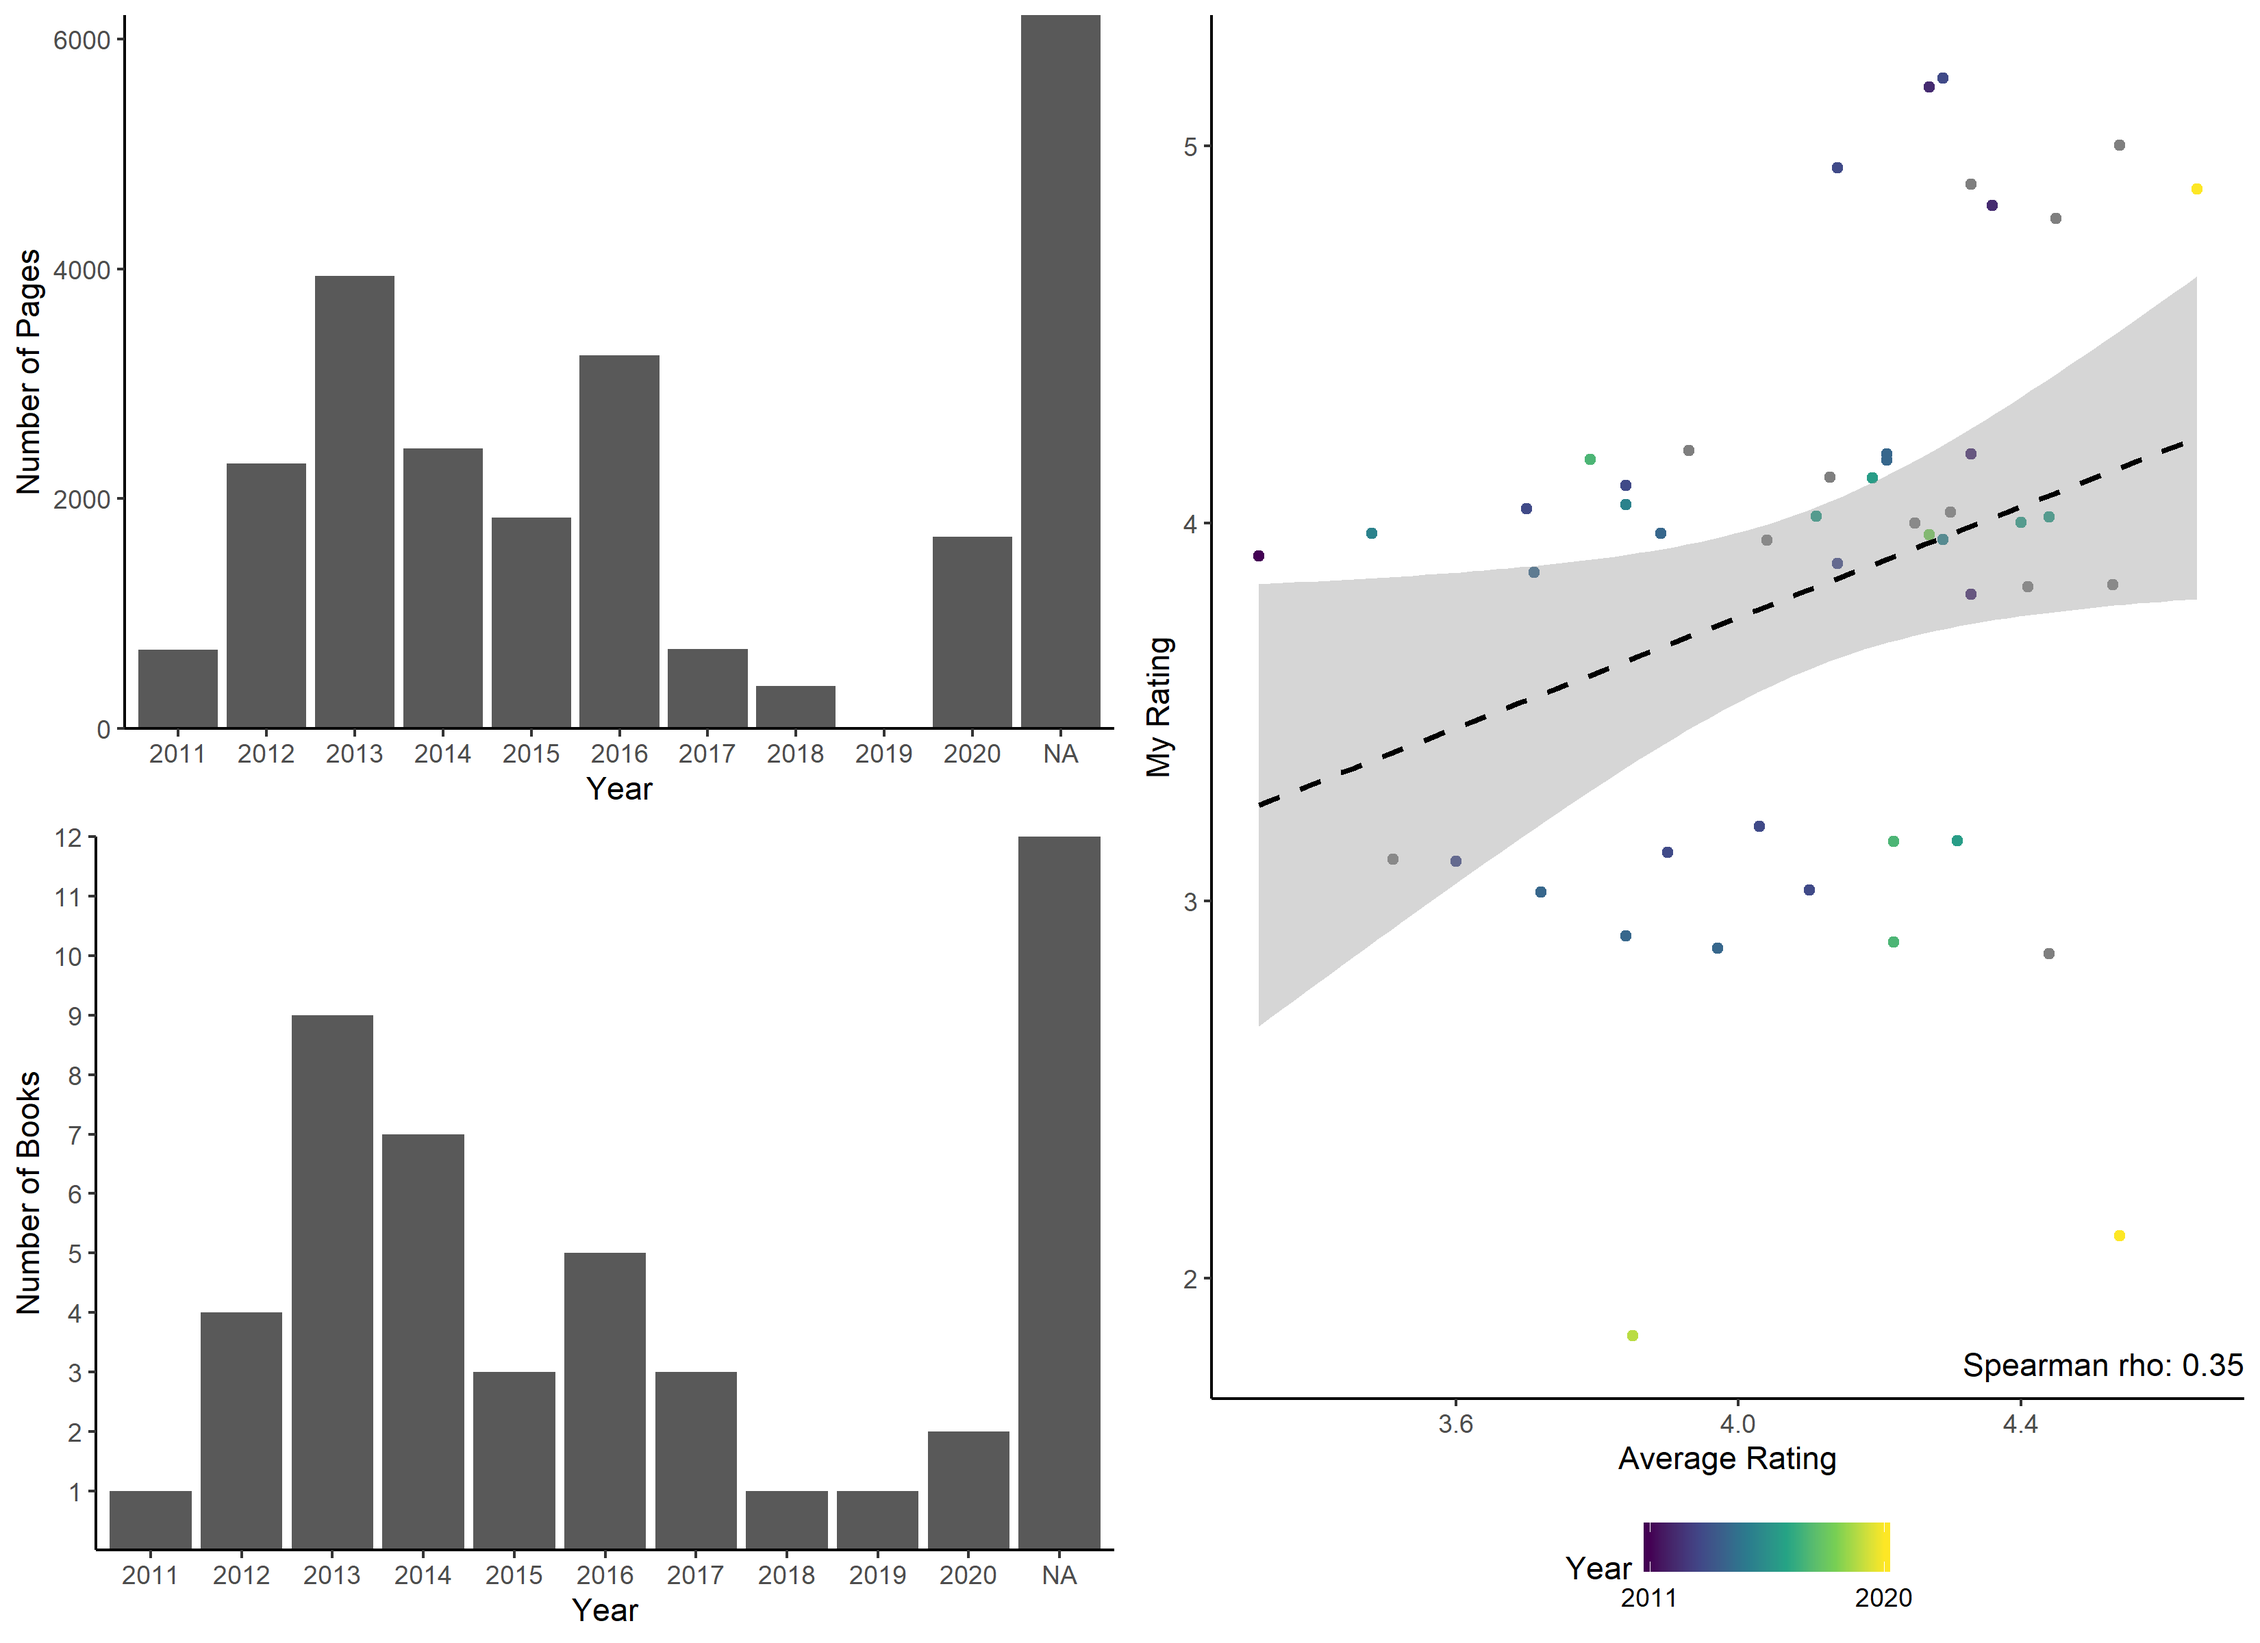
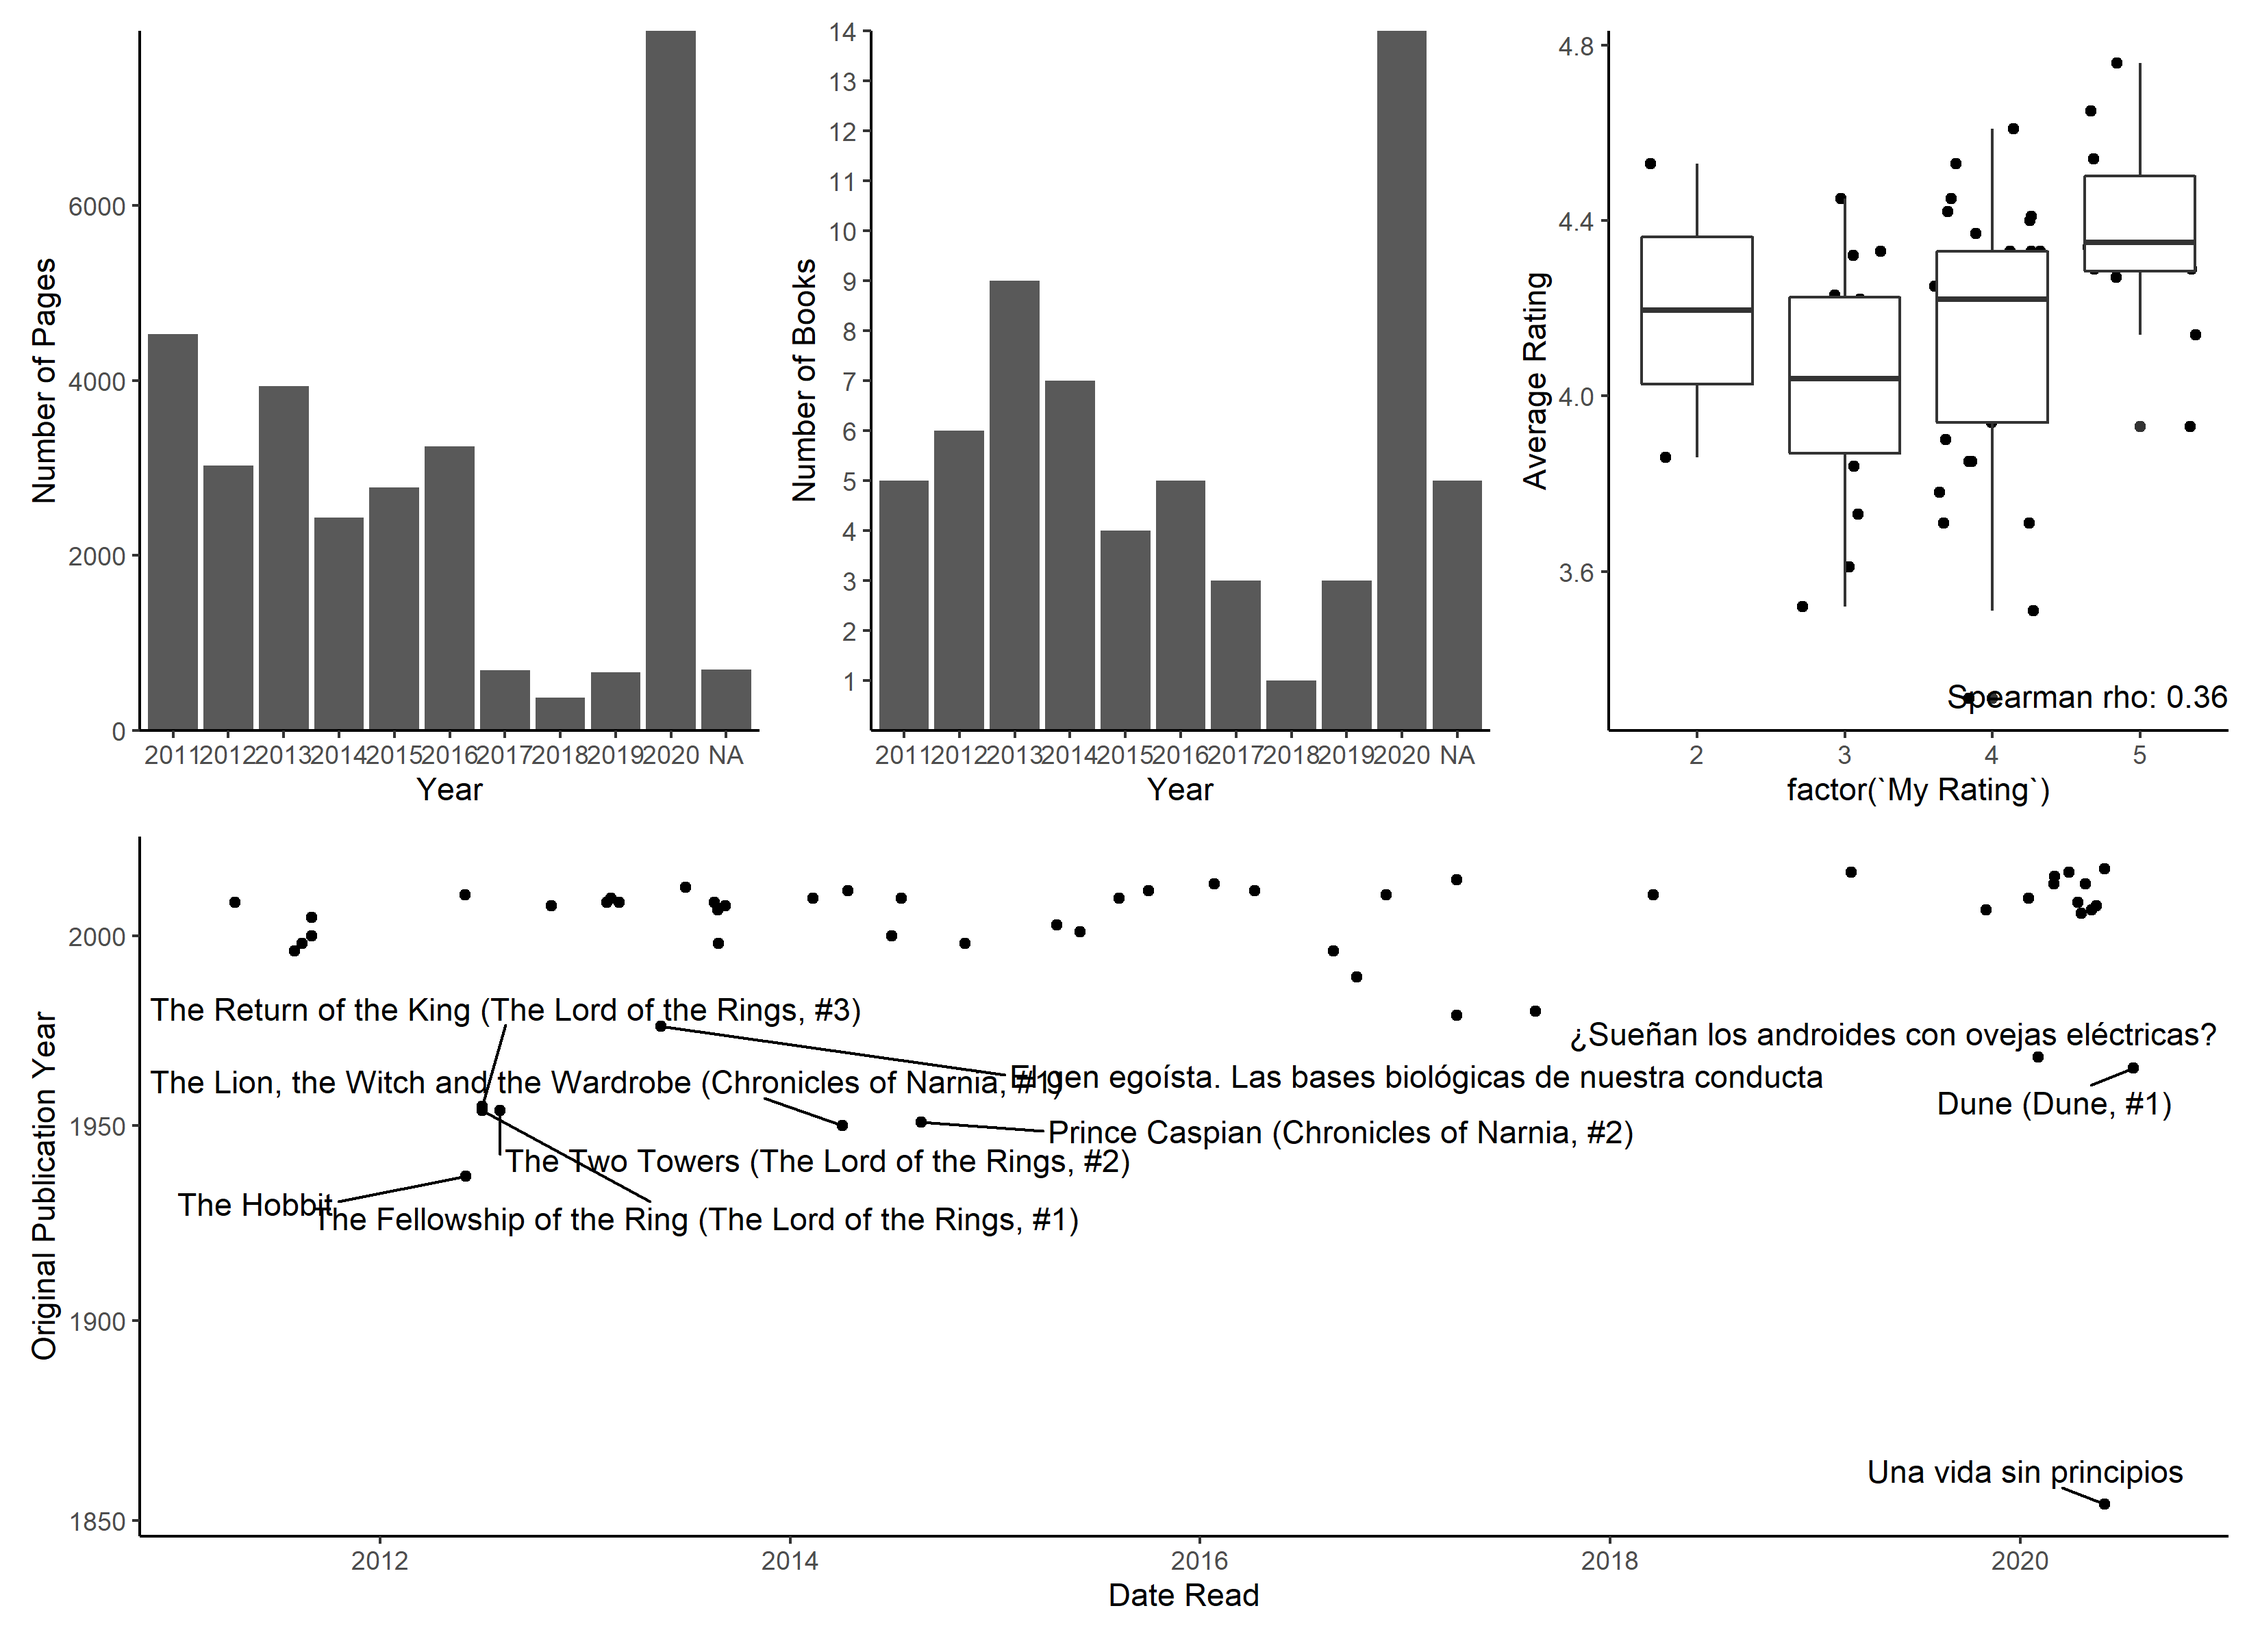
update

diff --git a/20200118_goodreads/README.md b/20200118_goodreads/README.md
@@ -1,6 +1,6 @@
 # Goodreads Viz
 * author: David Mas-Ponte
-* date: 2020-01-18
+* date: 2020-07-26
 ## Usage
 In order to compile this report, run:
 
@@ -17,12 +17,15 @@ You will need to install the following dependencies first:
 * dplyr
 * fs
 * ggplot2
+* ggrepel
 * glue
 * knitr
 * lubridate
 * magrittr
+* patchwork
 * readr
 * renv
+* stringr
 
 ## Data source
 [Goodreads](https://www.goodreads.com/) is a
@@ -100,12 +103,10 @@ raiting_cor = with(dat_read,cor(`My Rating`,
                                 method = "spearman")) %>% round(digits = 2)
 
 p1 = dat_read %>%
-  ggplot(aes(y = `My Rating`,x = `Average Rating`, color = year_read)) +
-  geom_jitter(height = 0.2,width = 0) +
-  geom_smooth(method = "lm",color = "black",linetype = "dashed") +
-  theme_classic() +
-  scale_color_viridis_c(breaks = c(min(dat_read$year_read,na.rm = T),
-                                  max(dat_read$year_read,na.rm = T))) +
+  ggplot(aes(x = factor(`My Rating`),y = `Average Rating`)) +
+  geom_jitter(width = 0.4,height = 0) +
+  geom_boxplot() +
+  theme_classic()  +
   annotate(x  =Inf,y = -Inf,geom = "text",
            label = glue::glue("Spearman rho: {raiting_cor}"),
            hjust = 1,
@@ -125,15 +126,45 @@ p3 = dat_read %>% ggplot(aes(x = factor(year_read),
   scale_y_continuous(expand = c(0,0)) +
   labs(y = "Number of Pages", x = "Year") +
   theme_classic()
+
+
+
+dat_read$saga = stringr::str_extract(dat_read$Title,"(?<=\\().+(?=, #)")
+dat_read$saga = ifelse(is.na(dat_read$saga),dat_read$Title,no = dat_read$Title)
+dat_read %>%
+  dplyr::filter(!is.na(`Original Publication Year`)) %>%
+  dplyr::filter(!is.na(`Date Read`)) -> plot_data
+
+p4 = ggplot(plot_data,
+            aes(x = `Date Read`,
+                y = `Original Publication Year`)) +
+  geom_point() +
+  ggrepel::geom_text_repel(data = dplyr::top_n(x = plot_data,
+                                               n = -10,
+                                               wt = `Original Publication Year`),
+                           aes(label = saga),force = 50) +
+  scale_y_log10() +
+  theme_classic()
 ```
+
+```r
+library(patchwork)
+(p3 + p2 + p1) / p4
+```
+
+```
+## Warning: Removed 2 rows containing missing values (position_stack).
+```
+
+<img src="figure/unnamed-chunk-4-1.png" title="plot of chunk unnamed-chunk-4" alt="plot of chunk unnamed-chunk-4" style="display: block; margin: auto;" />
 
 ```r
 plot_grid(plot_grid(p3,p2,ncol = 1),p1,ncol = 2)
 ```
 
 ```
-## Warning: Removed 1 rows containing missing values (position_stack).
+## Warning: Removed 2 rows containing missing values (position_stack).
 ```
 
-<img src="figure/unnamed-chunk-4-1.png" title="plot of chunk unnamed-chunk-4" alt="plot of chunk unnamed-chunk-4" style="display: block; margin: auto;" />
+<img src="figure/unnamed-chunk-4-2.png" title="plot of chunk unnamed-chunk-4" alt="plot of chunk unnamed-chunk-4" style="display: block; margin: auto;" />
 
